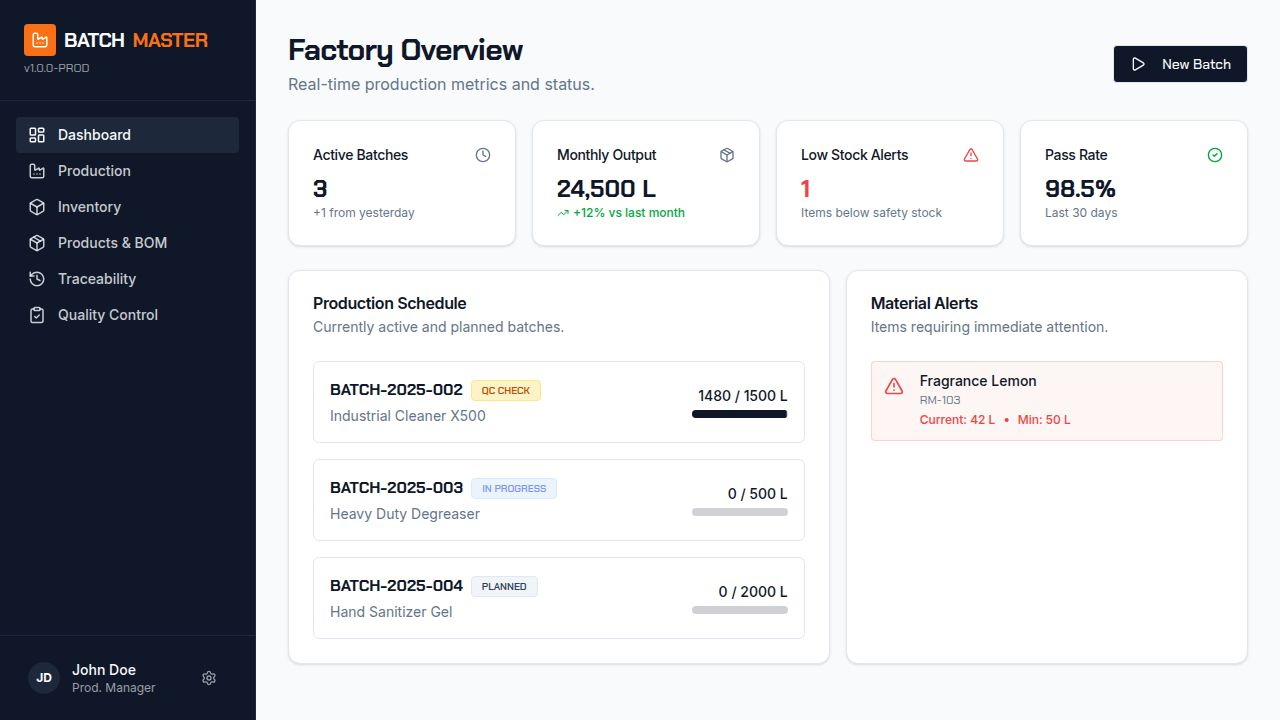
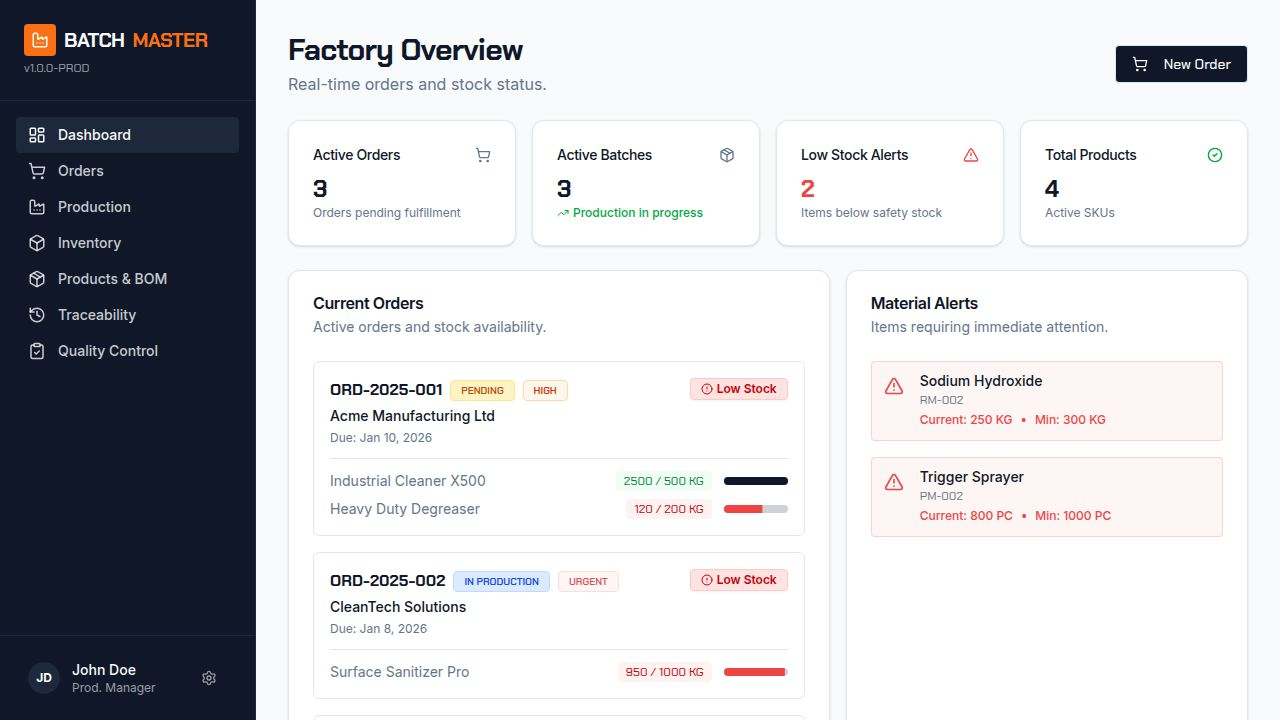
Connect all pages to the database and add error handling
Update replit.md with recent changes including full-stack TypeScript architecture, PostgreSQL integration, and frontend error handling.

Replit-Commit-Author: Agent
Replit-Commit-Session-Id: 13571c0c-cc20-4106-8238-d2208f698ef5
Replit-Commit-Checkpoint-Type: full_checkpoint
Replit-Commit-Event-Id: fc91d0b5-0c42-4ab6-bfa8-68038dcb6ea5
Replit-Commit-Screenshot-Url: https://storage.googleapis.com/screenshot-production-us-central1/ef2e7d6c-e6bf-40e4-b883-81a5fc882a6e/13571c0c-cc20-4106-8238-d2208f698ef5/cFbSPBj
Replit-Helium-Checkpoint-Created: true

diff --git a/replit.md b/replit.md
@@ -4,28 +4,34 @@
 
 BatchMaster ERP is a Manufacturing Execution System (MES) and batch tracking application designed for chemical/process manufacturing operations. The system manages orders, production batches, inventory (raw materials and finished goods), product recipes/bill of materials (BOM), lot traceability, and quality control workflows.
 
-The application follows a full-stack TypeScript architecture with a React frontend and Express backend, using PostgreSQL for data persistence.
+The application follows a full-stack TypeScript architecture with a React frontend and Express backend, using PostgreSQL for data persistence. All measurements are in KG (Kilograms).
 
 ## User Preferences
 
 Preferred communication style: Simple, everyday language.
+
+## Recent Changes
+
+- **Jan 7, 2026**: Connected all frontend pages to real PostgreSQL database via REST API with React Query. Added proper loading and error states to all pages.
+- **Jan 7, 2026**: Created complete database schema with 15+ tables including products, materials, lots, recipes, batches, orders, quality checks, stock movements, and audit logs.
+- **Jan 7, 2026**: Implemented database seeding with sample data for testing.
 
 ## System Architecture
 
 ### Frontend Architecture
 - **Framework**: React 18 with TypeScript
 - **Routing**: Wouter (lightweight React router)
-- **State Management**: TanStack React Query for server state
+- **State Management**: TanStack React Query for server state with proper loading/error handling
 - **UI Components**: shadcn/ui component library built on Radix UI primitives
 - **Styling**: Tailwind CSS v4 with CSS variables for theming
 - **Build Tool**: Vite
 
 The frontend is organized with:
-- Pages in `client/src/pages/` for each major feature (Dashboard, Orders, Production, Inventory, Products, Traceability, Quality)
+- Pages in `client/src/pages/` for each major feature (Dashboard, Orders, Production, Inventory, Products, Traceability)
 - Reusable UI components in `client/src/components/ui/`
 - Layout components in `client/src/components/layout/`
 - Custom hooks in `client/src/hooks/`
-- Mock data in `client/src/lib/mockData.ts` for development
+- API client with React Query hooks in `client/src/lib/api.ts`
 
 ### Backend Architecture
 - **Framework**: Express.js with TypeScript
@@ -35,8 +41,10 @@ The frontend is organized with:
 
 The backend follows a modular structure:
 - `server/index.ts` - Express app setup and middleware
-- `server/routes.ts` - API route registration
-- `server/storage.ts` - Data access layer interface (currently in-memory, designed for database migration)
+- `server/routes.ts` - API route registration for all resources
+- `server/storage.ts` - Data access layer with DatabaseStorage class using Drizzle ORM
+- `server/db.ts` - PostgreSQL connection setup with Drizzle
+- `server/seed.ts` - Database seeding script with sample data
 - `server/vite.ts` - Development server with Vite HMR integration
 - `server/static.ts` - Production static file serving
 
@@ -44,13 +52,38 @@ The backend follows a modular structure:
 - **Schema Location**: `shared/schema.ts` - Shared between frontend and backend
 - **Database**: PostgreSQL (configured via DATABASE_URL environment variable)
 - **Migrations**: Drizzle Kit with migrations output to `./migrations`
-- **Current Schema**: Basic users table with UUID primary keys
 
-The storage layer uses an interface pattern (`IStorage`) allowing easy swapping between in-memory storage (development) and database storage (production).
+#### Database Tables:
+- **products** - Finished goods with SKU, stock levels
+- **materials** - Raw materials with SKU, stock levels
+- **lots** - Lot tracking with expiry dates, supplier lots, traceability
+- **recipes** - Versioned product formulations
+- **recipeItems** - Bill of materials for each recipe
+- **batches** - Production batches with status workflow (planned → in_progress → quality_check → completed → released)
+- **batchMaterials** - Material lots used in each batch (for traceability)
+- **orders** - Customer orders with priority and status
+- **orderItems** - Line items for each order
+- **qualityChecks** - QC records for batches
+- **stockMovements** - Inventory movement audit trail
+- **auditLogs** - Immutable system-wide audit logging
+
+### API Endpoints
+- `GET/POST /api/products` - Product CRUD
+- `GET/POST /api/materials` - Material CRUD
+- `GET/POST /api/lots` - Lot tracking
+- `GET/POST /api/recipes` - Recipe management
+- `GET /api/recipes/:id/items` - Recipe ingredients
+- `GET/POST /api/batches` - Batch management
+- `GET/POST /api/orders` - Order management
+- `GET /api/orders/:id/items` - Order line items
+- `GET /api/dashboard/stats` - Dashboard statistics
+- `GET /api/traceability/forward/:lotId` - Forward lot traceability
+- `GET /api/traceability/backward/:batchId` - Backward batch traceability
 
 ### Build System
 - **Development**: `npm run dev` - Runs Express server with Vite middleware for HMR
 - **Production Build**: `npm run build` - Uses esbuild for server bundling, Vite for client
+- **Database**: `npm run db:push` - Push schema changes to PostgreSQL
 - **Output**: `dist/` directory with `index.cjs` (server) and `public/` (client assets)
 
 ## External Dependencies
